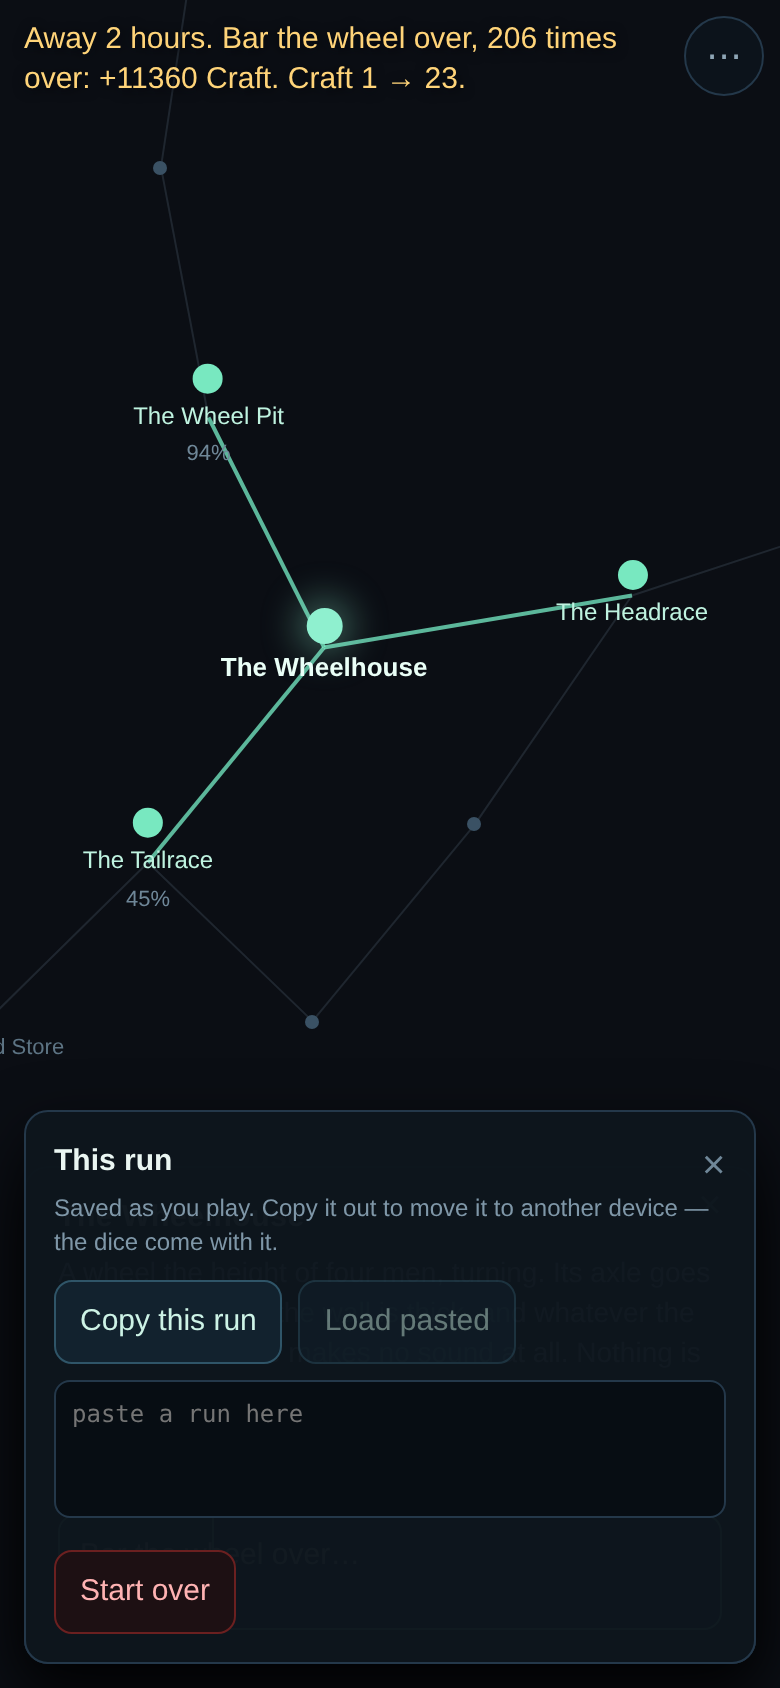
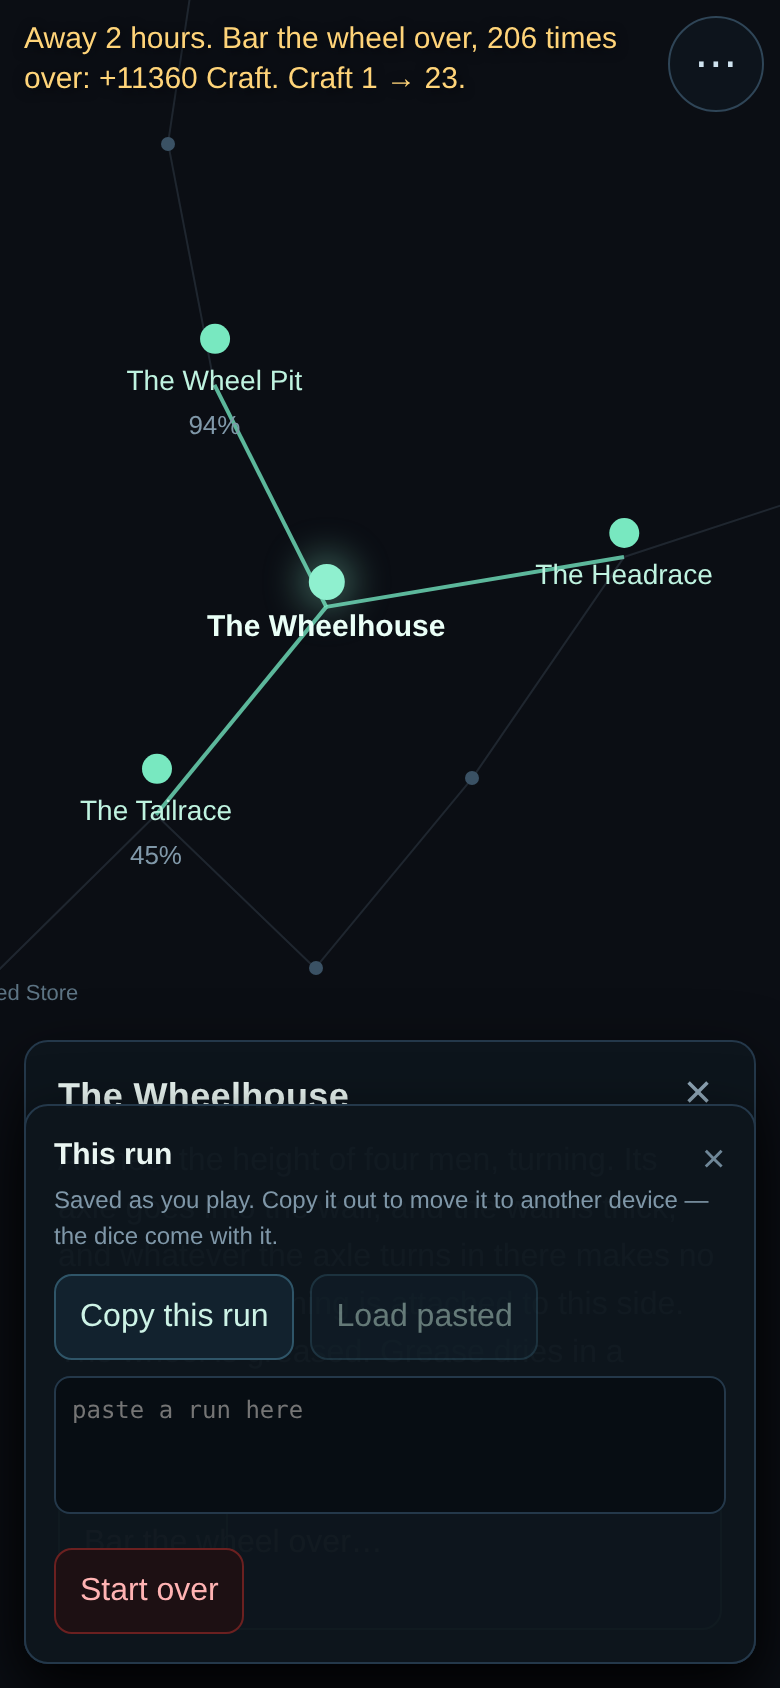
Five things from a real phone: reset, pan, an introduction, sizes, centring
1. THE RESET WAS NEVER BROKEN — IT WAS UNREACHABLE. Driving it headlessly
   it works fine: The Weir -> The Cut, surviving a reload. The gear sat at
   top:8 / right:8 of a 100vh box, which on iOS is UNDER the browser chrome
   and the notch, so the only way to Start Over was behind Edge's own UI.
   Every fixed element now respects env(safe-area-inset-*), the box is
   100dvh so the board stops resizing when the URL bar hides, and the gear
   is 48px instead of 40.

2. PAN DID NOT EXIST. The camera was entirely derived — there was no drag
   handler in the file at all. Dragging the board now moves it, a Recentre
   button appears only once it has been moved, and travelling clears the pan
   because each neighbourhood reframes itself and a carried pan would leave
   you looking at where you used to be. Measured: the lit dot moves 166 ->
   256 on a drag and back to 166 on Recentre.

3. THERE WAS NO INTRODUCTION, after four builds of the owner saying he could
   not tell what the game was. Three lines, shown only to somebody with one
   place seen and nothing held, dismissed by any tap. The scrim is
   deliberately NOT opaque: the whole thing is one sentence pointing at the
   board — "you are the lit dot" — and at 93% black you could not see the
   lit dot it was pointing at.

4. TOO SMALL FOR A PHONE. Body 15 -> 16, place names 12 -> 14, the current
   place 13 -> 15, tags 11 -> 13, card prose 14 -> 16 with more leading, and
   the card's close button from 32px to 48.
[…]

diff --git a/src/ui/Slice.svelte b/src/ui/Slice.svelte
@@ -34,6 +34,16 @@
   let saveNote = $state('');
   /** What the catch-up said, shown until the player does something. */
   let awayLine = $state('');
+  /** ⚠ THE INTRODUCTION, and there was not one. The owner has said FOUR times
+   *  across four builds that they could not tell what the game was. Every fix
+   *  so far has been about making the screen honest — names on dots, odds on
+   *  buttons, a reason on every shut door — and none of them ever said, in one
+   *  sentence, what you are doing here.
+   *
+   *  It is three lines and it never comes back. It is not a tutorial: nothing
+   *  is gated behind it, nothing waits for it, and one tap anywhere dismisses
+   *  it. `docs/GAME_DESIGN.md`: "three dots and one sentence." */
+  let intro = $state(false);
   let w = $state(360);
   let h = $state(640);
   let canvas = $state<HTMLCanvasElement | null>(null);
@@ -50,6 +60,9 @@
     // absence paid, and the sentence saying so was gone before it painted.
     // It clears when the player acts, which is what it was for.
     if (a.type !== 'tick') awayLine = '';
+    // Travelling reframes on the new neighbourhood, so a pan from the old one
+    // would leave the player looking at where they used to be.
+    if (a.type === 'travel') nudge = { x: 0, y: 0 };
   };
 
   const here = $derived(PLACE.get(game.at)!);
@@ -85,7 +98,44 @@
    *  about 130px wide and hangs centred under its dot, so a node placed 40px
    *  from the edge pushed half its own name off the screen — visible in the
    *  screenshot, invisible to every other check. */
-  const BAND = { top: 84, bottom: 288, pad: 74 };
+  const BAND = { top: 92, pad: 78 };
+
+  /** ⚠ MEASURED, NOT ASSUMED. The bottom of the board was a constant 288px
+   *  while the sheet's height depends on how long the place's prose is — a
+   *  sixty-word body and two work buttons is well over 400px. So the graph was
+   *  centred in a band that did not exist and sat low or high depending on
+   *  which place you were standing in, which is the "miscentred again" the
+   *  owner reported. This reads the sheet's real height every frame it changes. */
+  let sheetEl = $state<HTMLElement | null>(null);
+  let sheetH = $state(300);
+  $effect(() => {
+    if (!sheetEl) { sheetH = 96; return; }
+    const ro = new ResizeObserver(() => {
+      sheetH = (sheetEl?.getBoundingClientRect().height ?? 288) + 24;
+    });
+    ro.observe(sheetEl);
+    sheetH = sheetEl.getBoundingClientRect().height + 24;
+    return () => ro.disconnect();
+  });
+
+  /** How far the player has dragged the board. Cleared when you travel: each
+   *  neighbourhood frames itself, and a pan carried across a move would leave
+   *  you looking at where you used to be. */
+  let nudge = $state({ x: 0, y: 0 });
+  let grab: { x: number; y: number } | null = null;
+
+  function grabStart(e: PointerEvent): void {
+    if ((e.target as HTMLElement).closest('button, .card, .sheet, footer')) return;
+    grab = { x: e.clientX, y: e.clientY };
+    (e.currentTarget as HTMLElement).setPointerCapture(e.pointerId);
+  }
+  function grabMove(e: PointerEvent): void {
+    if (!grab) return;
+    nudge = { x: nudge.x + (e.clientX - grab.x), y: nudge.y + (e.clientY - grab.y) };
+    grab = { x: e.clientX, y: e.clientY };
+  }
+  const grabEnd = (): void => { grab = null; };
+  const moved = $derived(Math.abs(nudge.x) > 4 || Math.abs(nudge.y) > 4);
 
   const fit = $derived.by(() => {
     void simTick;
@@ -107,7 +157,7 @@
       minY = Math.min(minY, p.y); maxY = Math.max(maxY, p.y);
     }
     const boxW = Math.max(w - BAND.pad * 2, 80);
-    const boxH = Math.max(h - BAND.top - BAND.bottom, 120);
+    const boxH = Math.max(h - BAND.top - sheetH, 120);
     // A degenerate span (one node, or a column) must not divide by zero and
     // must not zoom to the ceiling either.
     const spanX = Math.max(maxX - minX, 0.05);
@@ -121,11 +171,12 @@
       // `cameraFor` puts the origin at `w/2 + panX`, so this is the offset that
       // lands the graph's own centre in the middle of the band.
       panX: (w / 2) - cx * scale - w / 2,
-      panY: (BAND.top + (h - BAND.bottom)) / 2 - cy * scale - h / 2,
+      panY: (BAND.top + (h - sheetH)) / 2 - cy * scale - h / 2,
     };
   });
 
-  const cam = $derived<Camera>(cameraFor(w, h, fit.zoom, fit.panX, fit.panY));
+  const cam = $derived<Camera>(
+    cameraFor(w, h, fit.zoom, fit.panX + nudge.x, fit.panY + nudge.y));
   const pos = $derived.by(() => {
     void simTick;
     const out = new Map<number, { x: number; y: number }>();
@@ -165,6 +216,10 @@
         if (caught.report.done > 0) awayLine = caught.report.line;
       }
       game = run;
+      // Shown only to somebody who has never played: one place seen, nothing
+      // held, nothing learned. A returning player is never told how to walk.
+      intro = run.seen.length <= 1 && run.pack.length === 0
+        && Object.values(run.xp).every((n) => n === 0);
       // ⚠ THE CARD FOLLOWS YOU. `open` starts at 0 so the first frame has text
       // on it, but a restored run can be anywhere — and the screenshot showed
       // "The Gate." in the narrator above a card describing The Cut, which is
@@ -398,7 +453,11 @@
     </div>
   {/if}
 
-  <div class="stage">
+  <!-- The board is a draggable surface, not a control: the CONTROLS are the
+       dots and buttons on top of it, each of which is a real button. -->
+  <div class="stage" role="application" aria-label="the board"
+    onpointerdown={grabStart} onpointermove={grabMove}
+    onpointerup={grabEnd} onpointercancel={grabEnd}>
     <canvas bind:this={canvas} style="width:{w}px;height:{h}px"></canvas>
 
     {#each PLACES as p (p.id)}
@@ -460,7 +519,7 @@
            status footer stands down while it is open (status is not what you
            are reading), and the dot it belongs to stays lit with its name on
            it. The title says where you are; the board says it too. -->
-      <div class="card" style="--from:{at.x}px">
+      <div class="card" bind:this={sheetEl} style="--from:{at.x}px">
         <h2>{openPlace.name}</h2>
         {#if game.seen.includes(openPlace.id)}
           <p>{openPlace.body}</p>
@@ -586,6 +645,26 @@
        far as it goes and then names where it stops: text you must read, exact
        numbers, and settings. Moving a save between devices is settings. So it
        is a corner button and a panel, and it does not pretend otherwise. -->
+  {#if moved}
+    <!-- Only while the board has been dragged. A control that is always there
+         to undo something you have not done is one more thing to read. -->
+    <button class="recentre" onclick={() => (nudge = { x: 0, y: 0 })}>Recentre</button>
+  {/if}
+
+  {#if intro}
+    <div class="intro" onclick={() => (intro = false)} role="presentation">
+      <div class="introBox">
+        <h2>You are the lit dot.</h2>
+        <p>The others are places you can walk to. Tap one to go there — some ask
+          for a throw of the dice, and some are shut until you are better at
+          something.</p>
+        <p>Standing still is not wasted: start a job and it keeps working while
+          this is closed.</p>
+        <button class="act">Begin</button>
+      </div>
+    </div>
+  {/if}
+
   <button class="gear" aria-label="save and restore"
     onclick={() => { showSave = !showSave; saveNote = ''; }}>⋯</button>
 
@@ -608,12 +687,25 @@
 </main>
 
 <style>
+  /* ⚠ SAFE AREA, and it is why the owner could not reset the game. The gear
+     sat at top:8 / right:8 of a 100vh box — which on iOS sits UNDER the browser
+     chrome and the notch, so the only way to Start Over was behind Edge's own
+     UI. The reset was never broken; it was unreachable, and a control you can
+     see in a screenshot and cannot touch on a phone is the same defect this
+     project keeps re-finding.
+     `100dvh` also stops the board resizing every time the URL bar hides. */
+  :global(html) { --safe-t: env(safe-area-inset-top, 0px);
+    --safe-b: env(safe-area-inset-bottom, 0px);
+    --safe-l: env(safe-area-inset-left, 0px);
+    --safe-r: env(safe-area-inset-right, 0px); }
   :global(body) { margin: 0; background: #070b10; color: #dfe9f0;
-    font: 15px/1.45 ui-sans-serif, system-ui, sans-serif; overscroll-behavior: none; }
-  main { position: relative; height: 100vh; overflow: hidden; }
+    font: 16px/1.45 ui-sans-serif, system-ui, sans-serif; overscroll-behavior: none;
+    -webkit-text-size-adjust: 100%; }
+  main { position: relative; height: 100dvh; overflow: hidden;
+    touch-action: none; }
   /* Right inset clears the gear button, which was sitting on top of the
      narrator's last two words. */
-  .said { position: absolute; inset: 10px 56px auto 12px; margin: 0; z-index: 4;
+  .said { position: absolute; inset: calc(10px + var(--safe-t)) 64px auto calc(12px + var(--safe-l)); margin: 0; z-index: 4;
     font-size: 17px; line-height: 1.35; color: #eaf4fa; text-shadow: 0 1px 6px #070b10; }
   .dice { position: absolute; top: 62px; left: 12px; z-index: 4; display: flex;
     gap: 6px; align-items: center; }
@@ -636,10 +728,10 @@
     /* 44px is the touch floor. The dot LOOKS small and TAPS big. */
     min-width: 44px; min-height: 44px; align-content: center; }
   .dot i { width: 11px; height: 11px; border-radius: 50%; background: #4d6b80; }
-  .dot .name { font-size: 12px; color: #7f97a8; white-space: nowrap; }
+  .dot .name { font-size: 14px; color: #93aabb; white-space: nowrap; }
   .dot.you i { width: 18px; height: 18px; background: #8ff0cf;
     box-shadow: 0 0 18px 5px rgba(143,240,207,.35); }
-  .dot.you .name { color: #eafff7; font-weight: 700; font-size: 13px; }
+  .dot.you .name { color: #eafff7; font-weight: 700; font-size: 15px; }
   .dot.way i { width: 15px; height: 15px; background: #78e8c0; }
   .dot.way .name { color: #bff3e0; }
   .dot.shut i { width: 15px; height: 15px; background: #f0b45f; }
@@ -650,7 +742,7 @@
   .mark.been i { background: #587a8f; }
   .mark .name { font-size: 11px; color: #5d7484; white-space: nowrap; }
 
-  .tag { font-size: 11px; color: #6f8798; }
+  .tag { font-size: 13px; color: #8098a9; }
   .tag.shut { color: #f0b45f; max-width: 116px; white-space: normal; text-align: center;
     line-height: 1.25; }
 
@@ -660,16 +752,17 @@
      overflow:hidden sliced the last word off every line. Seen in the
      screenshot, not in a type error. */
   .card { position: absolute; box-sizing: border-box; z-index: 5;
-    left: 12px; right: 12px; bottom: 12px; padding: 14px 16px 16px;
+    left: calc(12px + var(--safe-l)); right: calc(12px + var(--safe-r));
+    bottom: calc(12px + var(--safe-b)); padding: 14px 16px 16px;
     border-radius: 12px; background: #0d151dfa; border: 1px solid #24384a;
     box-shadow: 0 10px 30px #000a; }
-  .card h2 { margin: 0 0 6px; font-size: 15px; letter-spacing: .02em; }
-  .card p { margin: 0; font-size: 14px; color: #c3d4e0; }
+  .card h2 { margin: 0 0 8px; font-size: 18px; letter-spacing: .01em; }
+  .card p { margin: 0; font-size: 16px; line-height: 1.5; color: #c8d8e4; }
   .card p.unknown { color: #7f97a8; font-style: italic; }
-  .card .x { position: absolute; top: 4px; right: 6px; background: none; border: 0;
-    color: #6f8798; font-size: 20px; width: 32px; height: 32px; }
+  .card .x { position: absolute; top: 2px; right: 4px; background: none; border: 0;
+    color: #8fa6b6; font-size: 24px; width: 48px; height: 48px; }
   .act { position: relative; overflow: hidden; display: block; width: 100%;
-    margin: 10px 0 0; padding: 9px 10px; border-radius: 9px; background: #12222e;
+    margin: 10px 0 0; padding: 12px 12px; border-radius: 10px; background: #12222e;
     border: 1px solid #2f5568; color: #cdf3e6; font: inherit; text-align: left; }
   .act span, .act em { position: relative; z-index: 1; }
   /* The bar and the button are one object. A timer you cannot see while you are
@@ -679,11 +772,12 @@
   /* A running job is NOT dimmed, even though its button is disabled — it is the
      thing currently happening and it should look alive. */
   .act.busy { opacity: 1; border-color: #8ff0cf; color: #eafff7; }
-  .act em { display: block; font-size: 11px; color: #7fa8b8; font-style: normal; }
+  .act em { display: block; font-size: 13px; color: #8fb6c4; font-style: normal; }
   .act:disabled { opacity: .5; }
   .act.busy:disabled { opacity: 1; }
 
-  footer { position: absolute; inset: auto 12px 12px 12px; z-index: 4;
+  footer { position: absolute; z-index: 4;
+    inset: auto calc(12px + var(--safe-r)) calc(12px + var(--safe-b)) calc(12px + var(--safe-l));
     display: grid; gap: 8px; justify-items: start; }
   /* Status stands down while you are reading. It is not gone — it is behind the
      sheet, and closing the sheet is one tap on the ×. */
@@ -691,7 +785,7 @@
   .bar { width: 100%; height: 4px; border-radius: 3px; background: #16232f; }
   .bar i { display: block; height: 100%; border-radius: 3px; background: #8ff0cf; }
   .skills, .pack { display: flex; gap: 12px; margin: 0; padding: 0; list-style: none;
-    flex-wrap: wrap; font-size: 12px; color: #9db3c2; }
+    flex-wrap: wrap; font-size: 13px; color: #9db3c2; }
   .skills b { color: #dfe9f0; font-weight: 600; }
   .skills em { color: #6f8798; font-style: normal; }
   .pack li { padding: 3px 8px; border-radius: 20px; background: #14202c;
@@ -713,7 +807,7 @@
   .buy em { font-style: normal; color: #b99a4a; margin-left: 4px; }
   .buy:disabled { opacity: .45; }
   .stats, .soon { display: flex; gap: 10px; margin: 0; padding: 0; list-style: none;
-    flex-wrap: wrap; font-size: 12px; color: #9db3c2; }
+    flex-wrap: wrap; font-size: 13px; color: #9db3c2; }
   .soon { flex-direction: column; gap: 2px; }
   .soon b { color: #cdf3e6; }
   .soon em { font-style: normal; color: #6f8798; }
@@ -723,10 +817,27 @@
     border: 1px solid #6b5720; color: #ffd479; font: inherit; font-weight: 600; }
   .loot em { font-style: normal; color: #b99a4a; }
 
-  .gear { position: absolute; top: 8px; right: 8px; z-index: 7; width: 40px;
-    height: 40px; border-radius: 50%; background: #0d151dcc; border: 1px solid #24384a;
-    color: #8fa6b6; font-size: 18px; line-height: 1; }
-  .sheet { position: absolute; z-index: 8; inset: auto 12px 12px 12px;
+  .intro { position: absolute; inset: 0; z-index: 10; display: grid;
+    place-items: center; padding: 24px;
+    /* ⚠ NOT OPAQUE. The whole introduction is one sentence pointing at the
+       board — "you are the lit dot" — and at 93% black you could not see the
+       lit dot it was pointing at. The scrim has to leave the thing it names
+       legible or it is just a wall of text about a wall of text. */
+    background: #070b10c8; }
+  .introBox { max-width: 320px; }
+  .introBox h2 { margin: 0 0 10px; font-size: 20px; color: #eafff7; }
+  .introBox p { margin: 0 0 10px; font-size: 16px; line-height: 1.5; color: #c8d8e4; }
+  .introBox .act { margin-top: 14px; text-align: center; }
+  .recentre { position: absolute; z-index: 9; left: 50%; transform: translateX(-50%);
+    bottom: calc(12px + var(--safe-b)); padding: 10px 16px; border-radius: 22px;
+    background: #0d151de6; border: 1px solid #2f4557; color: #cfe3ef; font: inherit;
+    font-size: 14px; }
+  .gear { position: absolute; top: calc(8px + var(--safe-t));
+    right: calc(8px + var(--safe-r)); z-index: 9; width: 48px; height: 48px;
+    border-radius: 50%; background: #0d151de6; border: 1px solid #2f4557;
+    color: #cfe3ef; font-size: 22px; line-height: 1; }
+  .sheet { position: absolute; z-index: 8;
+    inset: auto calc(12px + var(--safe-r)) calc(12px + var(--safe-b)) calc(12px + var(--safe-l));
     box-sizing: border-box; padding: 14px; border-radius: 12px;
     background: #0d151dfa; border: 1px solid #24384a; box-shadow: 0 10px 30px #000a; }
   .sheet h2 { margin: 0 0 4px; font-size: 15px; }
